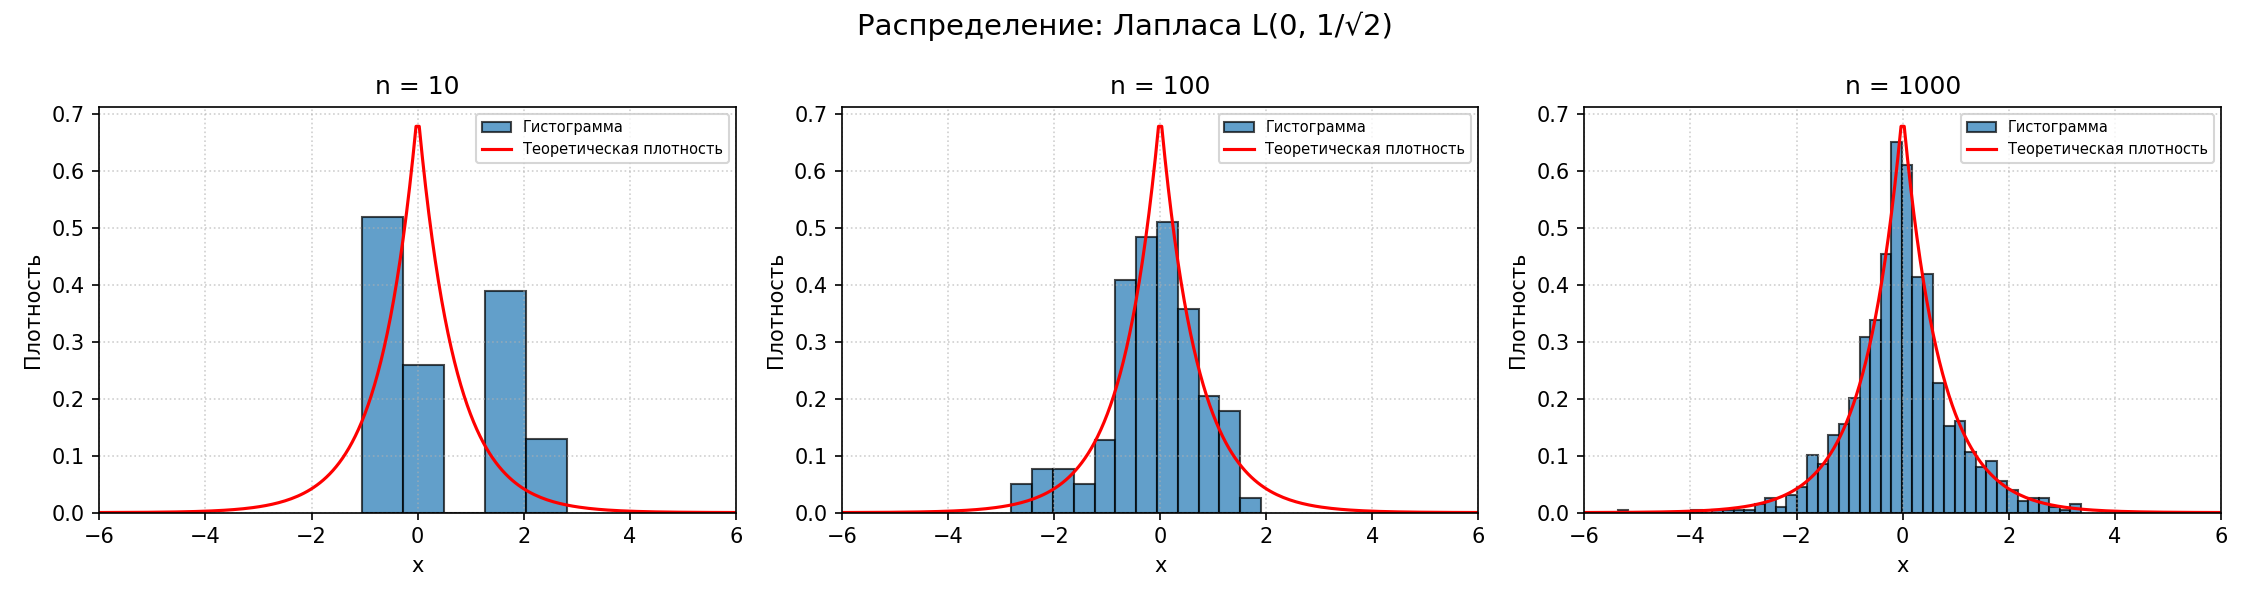
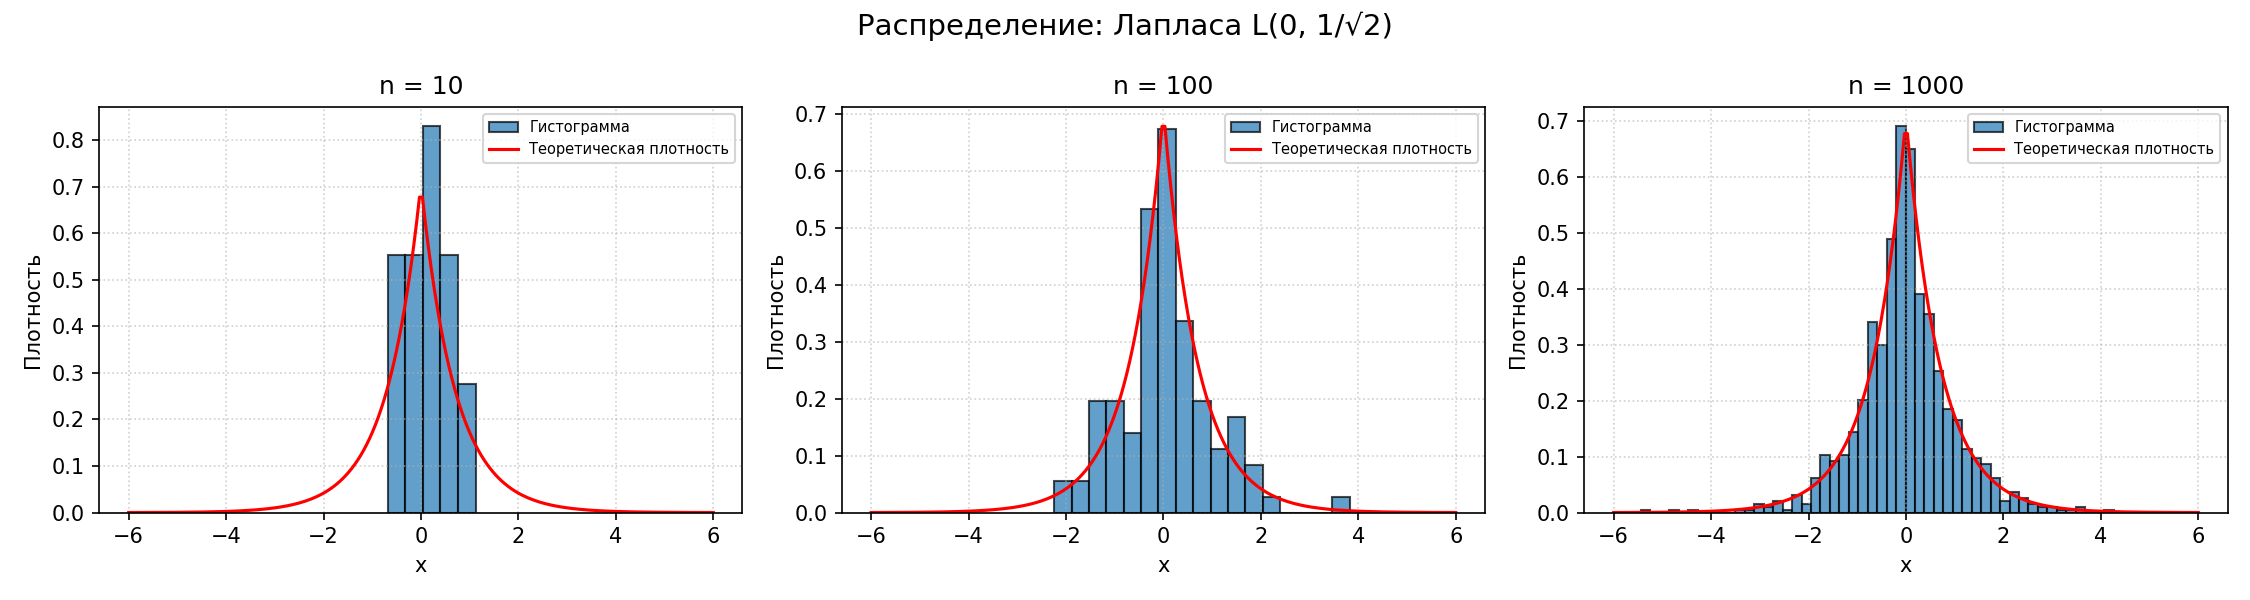
final ver but cauchy idk

diff --git a/lab1.py b/lab1.py
@@ -2,6 +2,7 @@ import numpy as np
 import matplotlib.pyplot as plt
 from scipy.stats import norm, cauchy, laplace, uniform, poisson
 
+np.random.seed(42)
 # Параметры
 n_values = [10, 100, 1000]
 
@@ -21,7 +22,7 @@ distributions = {
         'gen_args': (),
         'pdf_func': cauchy.pdf,
         'pdf_args': (0, 1),
-        'x_range': (-35, 35),
+        'x_range': (-20, 20),
         'discrete': False,
         'title': 'Коши C(0,1)'
     },
@@ -81,7 +82,6 @@ for name, dist in distributions.items():
             ax.plot(x_vals, pdf_vals, 'r-', label='Теоретическая плотность')
             ax.set_xlabel('x')
         
-        ax.set_xlim(dist['x_range'])
         ax.set_ylabel('Плотность')
         ax.set_title(f'n = {n}')
         ax.legend(loc='upper right', fontsize=7)
